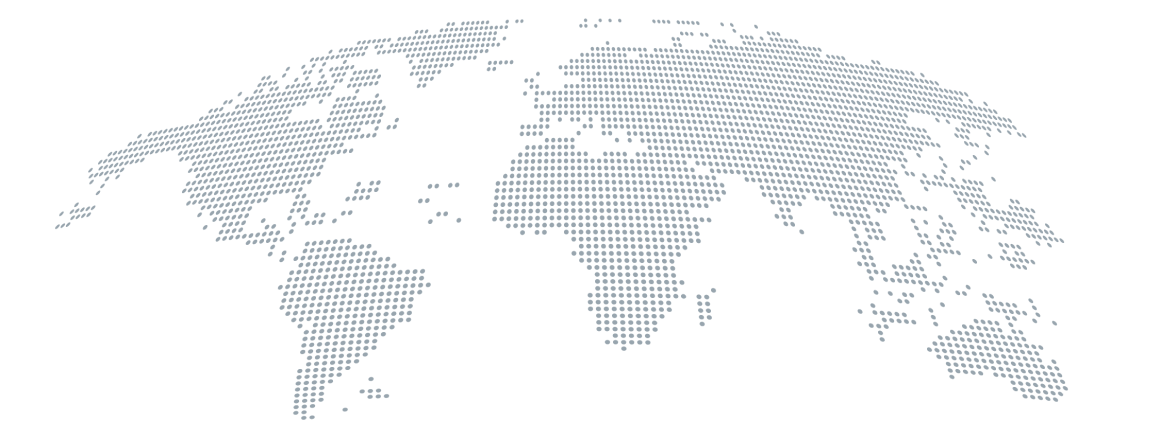
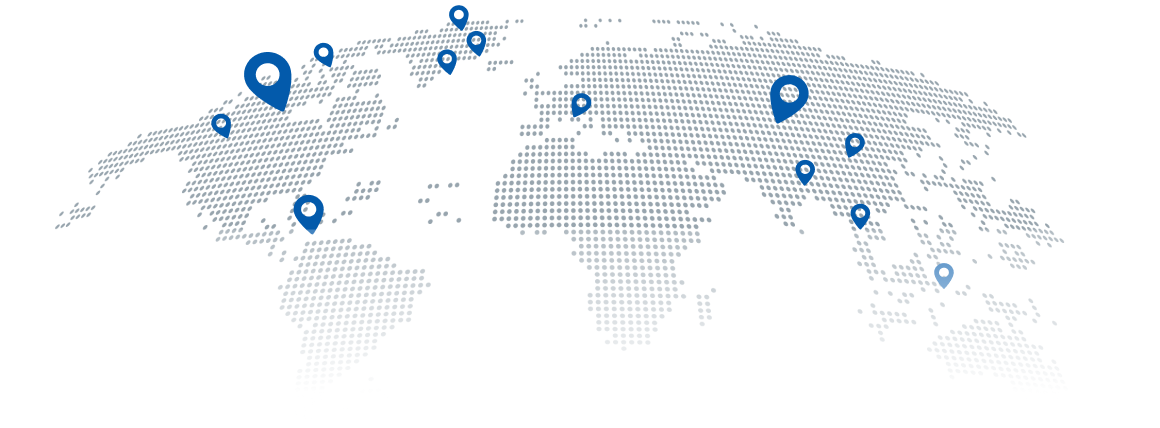
Doing Games

diff --git a/components/games/Games.vue b/components/games/Games.vue
@@ -1,0 +1,133 @@
+<template>
+  <b-container class="games" fluid>
+    <b-row>
+      <b-col cols="12" class="games-header">
+        <h2>{{ $t('games.title') }}</h2>
+        <p>{{ $t('games.des') }}</p>
+      </b-col>
+    </b-row>
+    <b-row class="games-list">
+      <b-col
+        cols="6"
+        md="3"
+        order="1"
+        order-md="1"
+        align-self="start"
+        class="games-header"
+      >
+        <div v-for="game in games.slice(0, 3)" :key="game.image">
+          <img :src="require(`@/assets/images/${game.image}.png`)" />
+        </div>
+      </b-col>
+      <b-col
+        cols="6"
+        md="3"
+        order="3"
+        order-md="2"
+        align-self="end"
+        class="games-header"
+      >
+        <div v-for="game in games.slice(3, 6)" :key="game.image">
+          <img :src="require(`@/assets/images/${game.image}.png`)" /></div
+      ></b-col>
+      <b-col
+        cols="6"
+        md="3"
+        order="2"
+        order-md="3"
+        align-self="start"
+        class="games-header"
+      >
+        <div v-for="game in games.slice(6, 9)" :key="game.image">
+          <img :src="require(`@/assets/images/${game.image}.png`)" /></div
+      ></b-col>
+      <b-col
+        cols="6"
+        md="3"
+        order="4"
+        order-md="4"
+        align-self="end"
+        class="games-header"
+      >
+        <div v-for="game in games.slice(-3)" :key="game.image">
+          <img :src="require(`@/assets/images/${game.image}.png`)" /></div
+      ></b-col>
+    </b-row>
+  </b-container>
+</template>
+
+<script>
+export default {
+  name: 'GamesComponent',
+  data() {
+    return {
+      games: [
+        {
+          title: this.$t('game1.title'),
+          des: this.$t('game1.des'),
+          image: 'game-1',
+        },
+        {
+          title: this.$t('game2.title'),
+          des: this.$t('game2.des'),
+          image: 'game-2',
+        },
+        {
+          title: this.$t('game3.title'),
+          des: this.$t('game3.des'),
+          image: 'game-3',
+        },
+        {
+          title: this.$t('game4.title'),
+          des: this.$t('game4.des'),
+          image: 'game-4',
+        },
+        {
+          title: this.$t('game5.title'),
+          des: this.$t('game5.des'),
+          image: 'game-5',
+        },
+        {
+          title: this.$t('game6.title'),
+          des: this.$t('game6.des'),
+          image: 'game-6',
+        },
+        {
+          title: this.$t('game7.title'),
+          des: this.$t('game7.des'),
+          image: 'game-7',
+        },
+        {
+          title: this.$t('game8.title'),
+          des: this.$t('game8.des'),
+          image: 'game-8',
+        },
+        {
+          title: this.$t('game9.title'),
+          des: this.$t('game9.des'),
+          image: 'game-9',
+        },
+        {
+          title: this.$t('game10.title'),
+          des: this.$t('game10.des'),
+          image: 'game-10',
+        },
+        {
+          title: this.$t('game11.title'),
+          des: this.$t('game11.des'),
+          image: 'game-11',
+        },
+        {
+          title: this.$t('game12.title'),
+          des: this.$t('game12.des'),
+          image: 'game-12',
+        },
+      ],
+    }
+  },
+}
+</script>
+
+<style lang="scss" scoped>
+@import './Games.scss';
+</style>

diff --git a/lang/vi.js b/lang/vi.js
@@ -36,4 +36,56 @@ export default {
       des: 'Etech là một studio quốc tế, từng đoạt giải thưởng gồm các nhà thiết kế, nghệ sĩ, họa sĩ hoạt hình và nhà sản xuất chuyên tạo ra nội dung cho những tên tuổi lớn nhất trong lĩnh vực điện ảnh và trò chơi điện tử.',
     },
   },
+  games: {
+    title: 'Trò chơi',
+    des: 'Là nhà tiên phong trong lĩnh vực trò chơi ứng dụng dành cho thiết bị di động, chúng tôi tự hào về tính độc đáo và cá tính, cung cấp cho người chơi toàn cầu những trò chơi hiện đại có cốt truyện tuyệt vời, hiệu ứng âm thanh giật gân và hoạt ảnh hoành tráng không ngừng gây ấn tượng.',
+    game1: {
+      title: 'E-Space',
+      des: 'Lorem ipsum dolor sit amet, consectetur adipiscing elit, sed do eiusmod tempor incididunt ut labore et dolore magna aliqua.',
+    },
+    game2: {
+      title: 'Pirates',
+      des: 'Lorem ipsum dolor sit amet, consectetur adipiscing elit, sed do eiusmod tempor incididunt ut labore et dolore magna aliqua.',
+    },
+    game3: {
+      title: 'Magic tree',
+      des: 'Lorem ipsum dolor sit amet, consectetur adipiscing elit, sed do eiusmod tempor incididunt ut labore et dolore magna aliqua.',
+    },
+    game4: {
+      title: 'Kingland',
+      des: 'Lorem ipsum dolor sit amet, consectetur adipiscing elit, sed do eiusmod tempor incididunt ut labore et dolore magna aliqua.',
+    },
+    game5: {
+      title: 'Witch Party',
+      des: 'Lorem ipsum dolor sit amet, consectetur adipiscing elit, sed do eiusmod tempor incididunt ut labore et dolore magna aliqua.',
+    },
+    game6: {
+      title: 'Aborigines',
+      des: 'Lorem ipsum dolor sit amet, consectetur adipiscing elit, sed do eiusmod tempor incididunt ut labore et dolore magna aliqua.',
+    },
+    game7: {
+      title: 'The Last Game',
+      des: 'Lorem ipsum dolor sit amet, consectetur adipiscing elit, sed do eiusmod tempor incididunt ut labore et dolore magna aliqua.',
+    },
+    game8: {
+      title: 'Rocky',
+      des: 'Lorem ipsum dolor sit amet, consectetur adipiscing elit, sed do eiusmod tempor incididunt ut labore et dolore magna aliqua.',
+    },
+    game9: {
+      title: 'Cinderella',
+      des: 'Lorem ipsum dolor sit amet, consectetur adipiscing elit, sed do eiusmod tempor incididunt ut labore et dolore magna aliqua.',
+    },
+    game10: {
+      title: 'G-Dragon',
+      des: 'Lorem ipsum dolor sit amet, consectetur adipiscing elit, sed do eiusmod tempor incididunt ut labore et dolore magna aliqua.',
+    },
+    game11: {
+      title: 'Blue Fire',
+      des: 'Lorem ipsum dolor sit amet, consectetur adipiscing elit, sed do eiusmod tempor incididunt ut labore et dolore magna aliqua.',
+    },
+    game12: {
+      title: 'Egypt Game',
+      des: 'Lorem ipsum dolor sit amet, consectetur adipiscing elit, sed do eiusmod tempor incididunt ut labore et dolore magna aliqua.',
+    },
+  },
 }

diff --git a/lang/en.js b/lang/en.js
@@ -36,4 +36,56 @@ export default {
       des: 'Etech is an award-winning, international studio of designers, artists, animators and producers that create content for the biggest names in film and video games. ',
     },
   },
+  games: {
+    title: 'Our Games',
+    des: 'As a pioneer of mobile app gamification, we take pride in originality and individuality, providing global players with state-of-the-art games that feature splendid storylines, sensational sound effects and magnificent animation that never cease to impress.',
+    game1: {
+      title: 'E-Space',
+      des: 'Lorem ipsum dolor sit amet, consectetur adipiscing elit, sed do eiusmod tempor incididunt ut labore et dolore magna aliqua.',
+    },
+    game2: {
+      title: 'Pirates',
+      des: 'Lorem ipsum dolor sit amet, consectetur adipiscing elit, sed do eiusmod tempor incididunt ut labore et dolore magna aliqua.',
+    },
+    game3: {
+      title: 'Magic tree',
+      des: 'Lorem ipsum dolor sit amet, consectetur adipiscing elit, sed do eiusmod tempor incididunt ut labore et dolore magna aliqua.',
+    },
+    game4: {
+      title: 'Kingland',
+      des: 'Lorem ipsum dolor sit amet, consectetur adipiscing elit, sed do eiusmod tempor incididunt ut labore et dolore magna aliqua.',
+    },
+    game5: {
+      title: 'Witch Party',
+      des: 'Lorem ipsum dolor sit amet, consectetur adipiscing elit, sed do eiusmod tempor incididunt ut labore et dolore magna aliqua.',
+    },
+    game6: {
+      title: 'Aborigines',
+      des: 'Lorem ipsum dolor sit amet, consectetur adipiscing elit, sed do eiusmod tempor incididunt ut labore et dolore magna aliqua.',
+    },
+    game7: {
+      title: 'The Last Game',
+      des: 'Lorem ipsum dolor sit amet, consectetur adipiscing elit, sed do eiusmod tempor incididunt ut labore et dolore magna aliqua.',
+    },
+    game8: {
+      title: 'Rocky',
+      des: 'Lorem ipsum dolor sit amet, consectetur adipiscing elit, sed do eiusmod tempor incididunt ut labore et dolore magna aliqua.',
+    },
+    game9: {
+      title: 'Cinderella',
+      des: 'Lorem ipsum dolor sit amet, consectetur adipiscing elit, sed do eiusmod tempor incididunt ut labore et dolore magna aliqua.',
+    },
+    game10: {
+      title: 'G-Dragon',
+      des: 'Lorem ipsum dolor sit amet, consectetur adipiscing elit, sed do eiusmod tempor incididunt ut labore et dolore magna aliqua.',
+    },
+    game11: {
+      title: 'Blue Fire',
+      des: 'Lorem ipsum dolor sit amet, consectetur adipiscing elit, sed do eiusmod tempor incididunt ut labore et dolore magna aliqua.',
+    },
+    game12: {
+      title: 'Egypt Game',
+      des: 'Lorem ipsum dolor sit amet, consectetur adipiscing elit, sed do eiusmod tempor incididunt ut labore et dolore magna aliqua.',
+    },
+  },
 }

diff --git a/components/about-us/AboutUs.scss b/components/about-us/AboutUs.scss
@@ -2,7 +2,7 @@
   margin-top: 10vh;
   &-left {
     h2 {
-      font-family: "Playfair";
+      font-family: 'Playfair';
       font-weight: 900;
       font-size: 60px;
       line-height: 100%;
@@ -33,7 +33,7 @@
     ul {
       li {
         display: flex;
-        &+li {
+        & + li {
           margin-top: 40px;
         }
         img {
@@ -48,8 +48,48 @@
             margin-bottom: 8px;
             font-weight: bold;
           }
+          &-des {
+            font-size: 14px;
+            color: $gray-boulder;
+          }
         }
       }
     }
+  }
+  &-image {
+    &-col {
+      height: 90vh;
+      margin-top: 64px;
+      position: relative;
+    }
+    &-global {
+      height: 100%;
+      width: 100%;
+      display: flex;
+      justify-content: center;
+      align-items: center;
+    }
+    &-angle {
+      height: fit-content;
+      position: absolute;
+      margin-left: auto;
+      margin-right: auto;
+      left: 0;
+      right: 0;
+      text-align: center;
+      animation: bobbing 3s infinite ease;
+      -webkit-animation: bobbing 3s infinite ease;
+    }
+  }
+}
+@keyframes bobbing {
+  0% {
+    top: 0;
+  }
+  50% {
+    top: 16px;
+  }
+  100% {
+    top: 0;
   }
 }

diff --git a/components/home/Home.vue b/components/home/Home.vue
@@ -3,19 +3,23 @@
     <Header />
     <Greeting />
     <AboutUs />
+    <Games />
   </main>
 </template>
 
 <script>
 import Header from '../partials/header/Header.vue'
+import Games from '../games/Games.vue'
 import Greeting from './../greeting/Greeting.vue'
 import AboutUs from './../about-us/AboutUs.vue'
+
 export default {
   name: 'HomeComponent',
   components: {
     Header,
     Greeting,
     AboutUs,
+    Games,
   },
 }
 </script>

diff --git a/components/about-us/AboutUs.vue b/components/about-us/AboutUs.vue
@@ -24,8 +24,11 @@
       </b-col>
     </b-row>
     <b-row class="about-image">
-      <b-col cols="12">
-
+      <b-col cols="12" class="about-image-col">
+        <div class="about-image-global">
+          <img src="@/assets/images/map.png" />
+        </div>
+        <img class="about-image-angle" src="@/assets/images/angle.png" />
       </b-col>
     </b-row>
   </b-container>

diff --git a/components/games/Games.scss b/components/games/Games.scss
@@ -1,0 +1,18 @@
+.games {
+  &-header {
+    margin-bottom: 80px;
+    text-align: center;
+    h2 {
+      font-family: 'Playfair';
+      font-weight: 900;
+      font-size: 60px;
+      line-height: 100%;
+      margin-bottom: 24px;
+    }
+    p {
+      font-size: 14px;
+      line-height: calc(20 / 14);
+      padding: 0 28%;
+    }
+  }
+}
